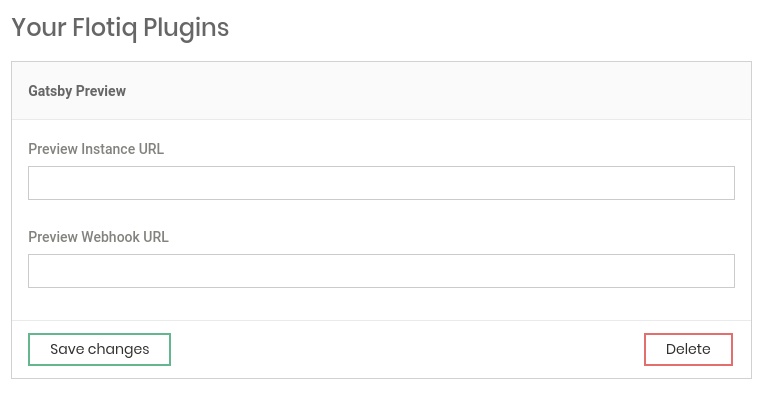
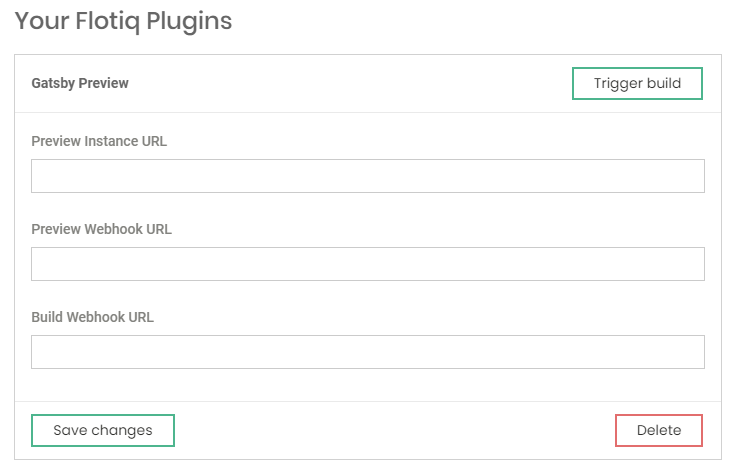
Update of screenshots in Gatsby Cloud plugin and integration description

diff --git a/docs/panel/Plugins/Gatsby-cloud-integration.md b/docs/panel/Plugins/Gatsby-cloud-integration.md
@@ -77,11 +77,11 @@ For example, if you're using the [Gatsby and Snipcart starter](https://github.co
 
 To obtain the Flotiq API key - in your Flotiq account, click your profile icon in the sidebar and go to `API keys`:
 
-![Access Flotiq API keys](https://flotiq.com/docs/API/images/user-profile.png)
+![Access Flotiq API keys](https://flotiq.com/docs/API/images/user-profile.png){: .center .width25 .border}
 
 You can either select the application-wide read-only key:
 
-![Use global read-only](https://flotiq.com/docs/API/images/api-keys_1.png)
+![Use global read-only](https://flotiq.com/docs/API/images/api-keys_1.png){: .center .width75 .border}
 
 Or as a safer option, create a scoped read-only API key that will only be used for the purpose of Gatsby Cloud, read more about [Flotiq API access](https://flotiq.com/docs/API/).
 
@@ -111,15 +111,15 @@ Next - fill in the details from your Gatsby Cloud instance and click `Save chang
 
 ### Configuring Gatsby Preview plugin
 
-The 2 elements you will need to copy from Gatsby Cloud is the Preview instance URL:
+The 3 elements you will need to copy from Gatsby Cloud is the Preview instance URL:
 
-![Gatsby Preview Instance URL](https://www.gatsbyjs.com/static/2f824dc7c09a5c5b4d133d633bfbaeb5/6af66/preview-domain.png){: .center .width75 .border}
+![Gatsby Preview Instance URL](images/gatsby-preview-url.png){: .center .width75 .border}
 
-and the Preview Webhook URL:
+and the Preview and Builds Webhook URLs from Site Settings:
 
-![Gatsby Preview Webhook URL](https://www.gatsbyjs.com/static/fbe7f981d3a82689659ea3342fe95cf2/6af66/webhook-preview.png){: .center .width75 .border}
+![Gatsby Preview and Builds Webhook URLs](images/gatsby-webhooks.png){: .center .width75 .border}
 
-You will paste both of them in Flotiq Gatsby Preview plugin settings, don't forget to click the `Save changes` button.
+You will paste all three of them in Flotiq Gatsby Preview plugin settings, don't forget to click the `Save changes` button.
 
 
 ## That's it!
